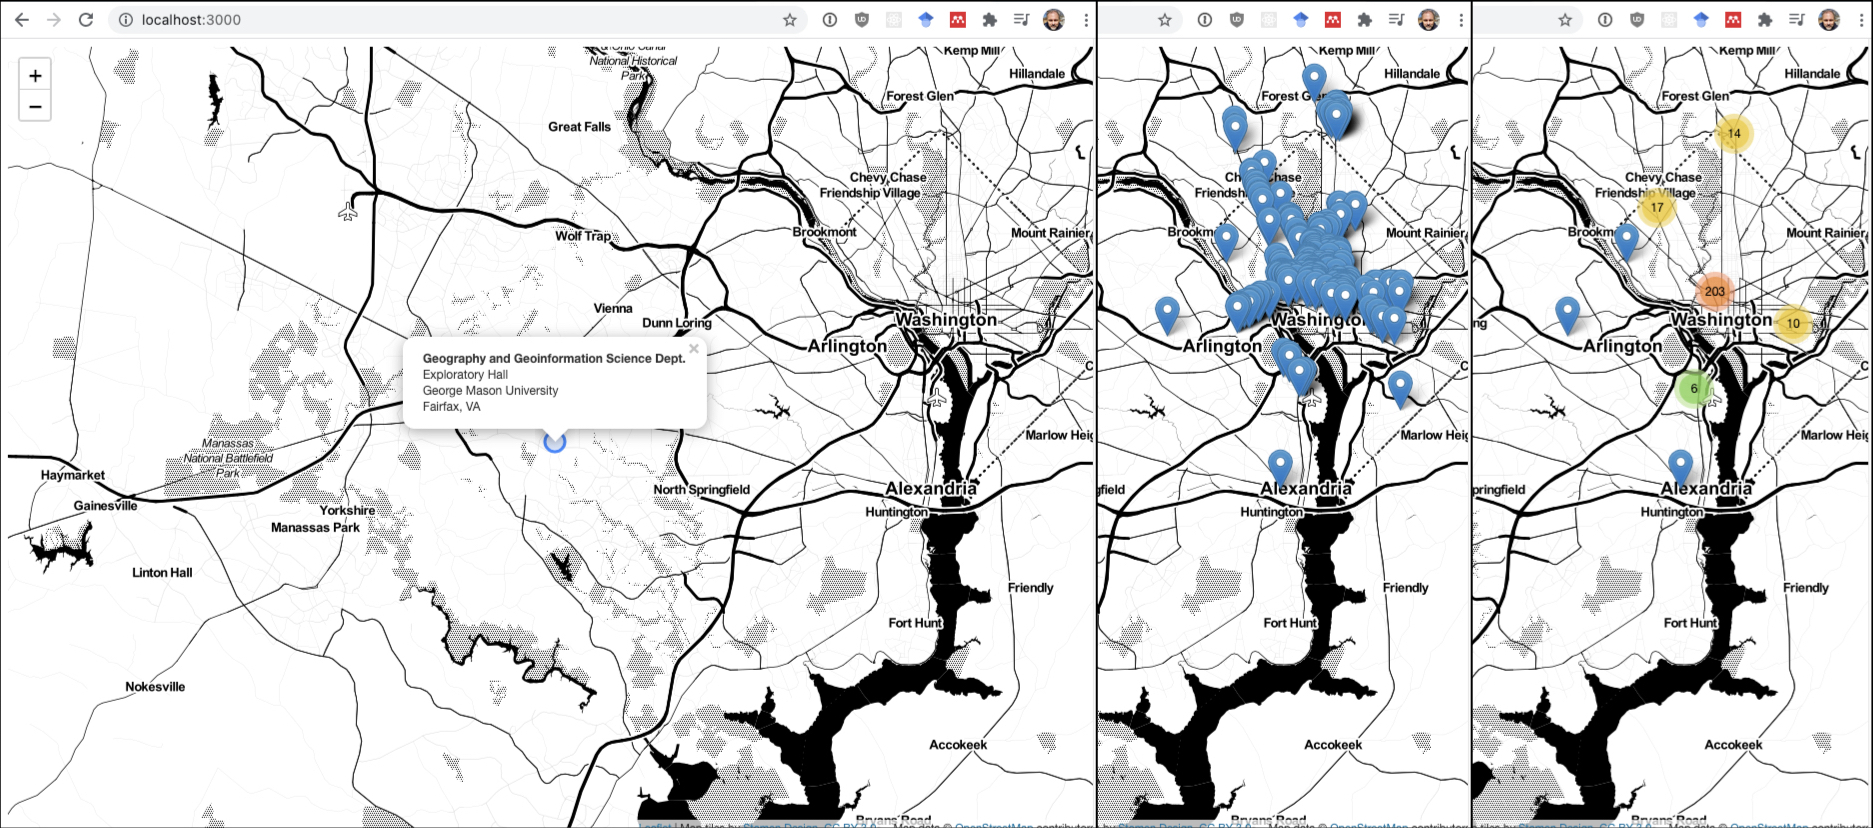
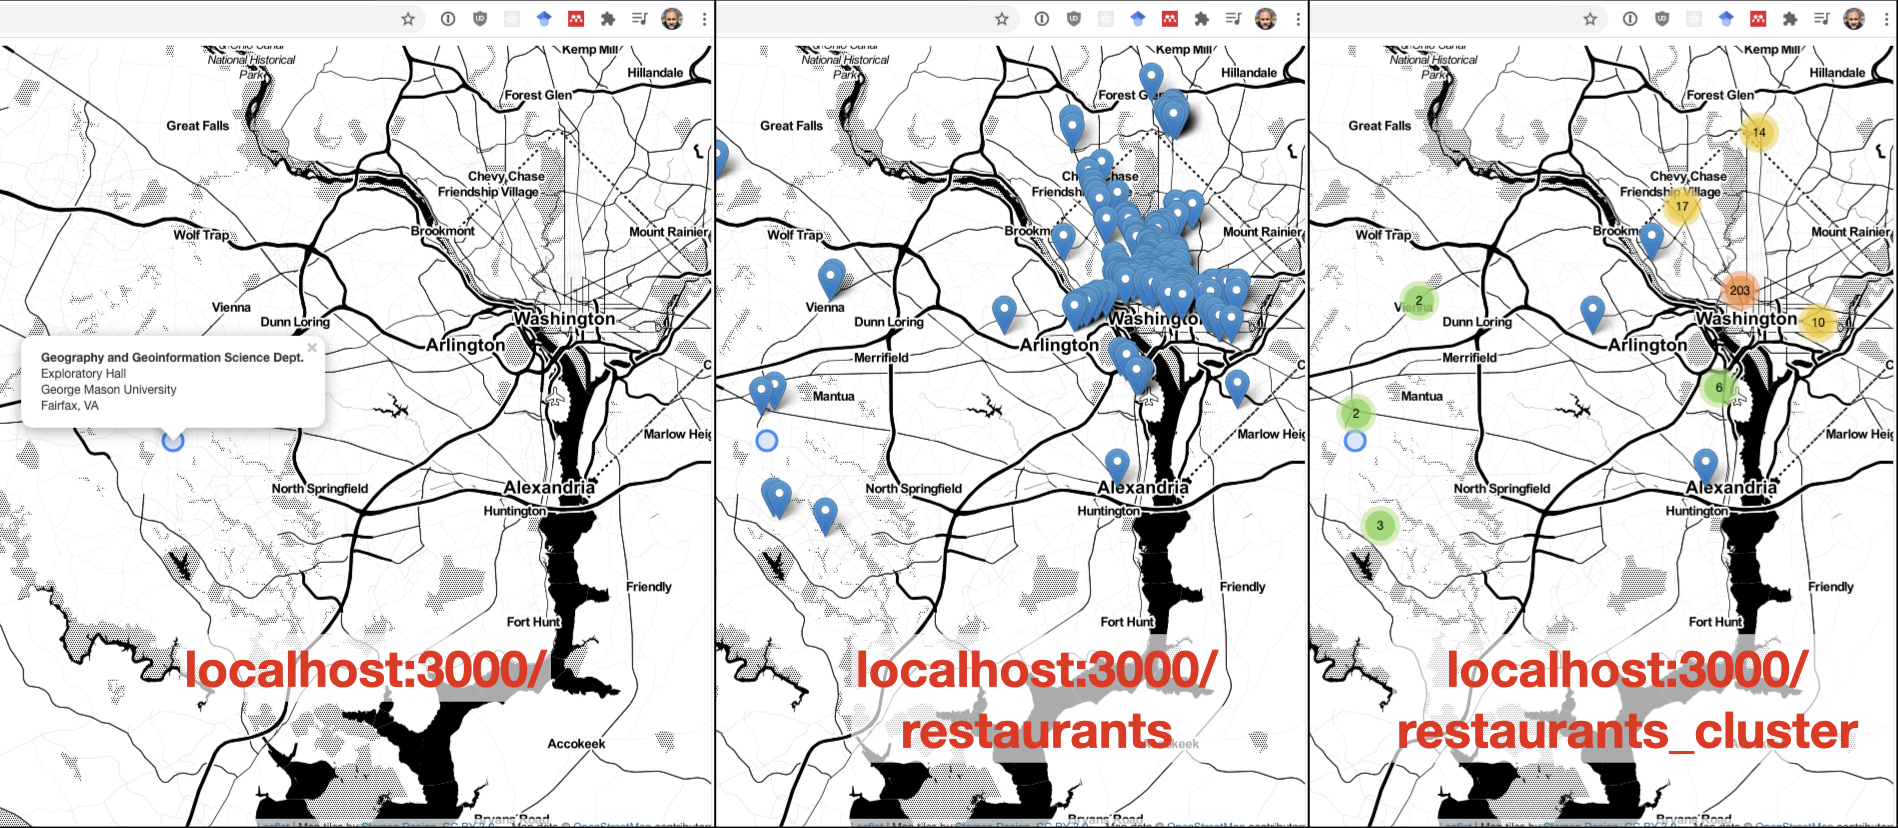
more updates

diff --git a/README.md b/README.md
@@ -422,13 +422,32 @@ npm start
 Building on Application 2, we want to expand its scope by showing markers based on a GeoJSON dataset. We will work off an express project structure created by the following command `express leaflet_express_pug_data --view=pug`, which creates the skeleton project structure in [code/leaflet_express_pug_data](code/leaflet_express_pug_data). Go check it out!
 
 ## Overview
-the 
+Using the [Restaurants_data.geojson](code/leaflet_express_pug_data/Restaurant_data.geojson) dataset containing restaurant locations in the DC area, we want to create a leaflet app that simply shows the restaurant locations, and since they are many, also create a [MarkerCluster](https://github.com/Leaflet/Leaflet.markercluster) version that aggregates the markers based on zoom levels. 
+
+The following figure shows these two versions in addition to the simple leaflet app we created in the previous step. 
 
 ![Three apps](images/three_apps.jpeg)
+
+All three web maps are provided by the same express app using three different URLs. This is implemented by the following code structure. Each URL in [index.js](code/leaflet_express_pug_data/routes/index.js) (which is the default route in [app.js](code/leaflet_express_pug_data/app.js)) links to a different html/view and Javascript file as follows:
+* [localhost:3000/](http://localhost:3000) -> [index.pug](code/leaflet_express_pug_data/views/index.pug) -> [webmap.js](code/leaflet_express_pug_data/webmap.js)
+* [localhost:3000/restaurants](http://localhost:3000/restaurants) -> [index2.pug](code/leaflet_express_pug_data/views/index2.pug) -> [webmap2.js](code/leaflet_express_pug_data/webmap2.js)
+* [localhost:3000/restaurants_cluster](http://localhost:3000/restaurants_cluster) -> [index3.pug](code/leaflet_express_pug_data/views/index3.pug) -> [webmap3.js](code/leaflet_express_pug_data/webmap3.js)
 
 ![App3 code structure](images/app3_schema.jpeg)
 
 ## Code Details
+
+What's interesting in this code is how the [Restaurants_data.geojson](code/leaflet_express_pug_data/Restaurant_data.geojson) data is served to the client. The following [index2.pug](code/leaflet_express_pug_data/views/index2.pug) -> [webmap2.js](code/leaflet_express_pug_data/webmap2.js) file looks like 
+
+```javascript
+// index.js excerpt
+...
+router.get('/restaurants', function(req,res, next){
+  res.render('index2', {datastr: JSON.stringify(Restaurants)});
+//  res.render('index', {jsonData: Restaurants});
+})
+...
+```
 
 ```pug
 //index2.pug
